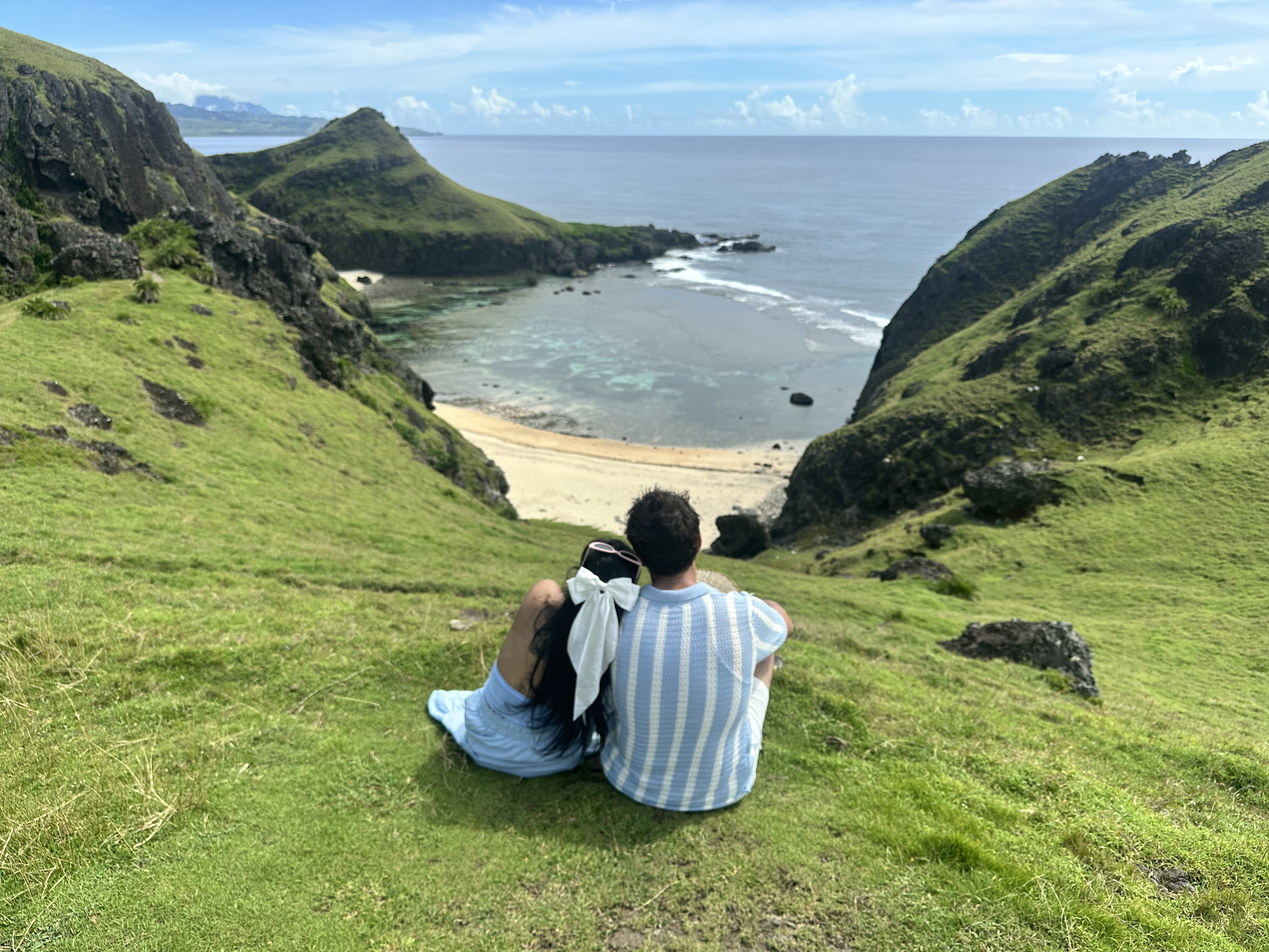
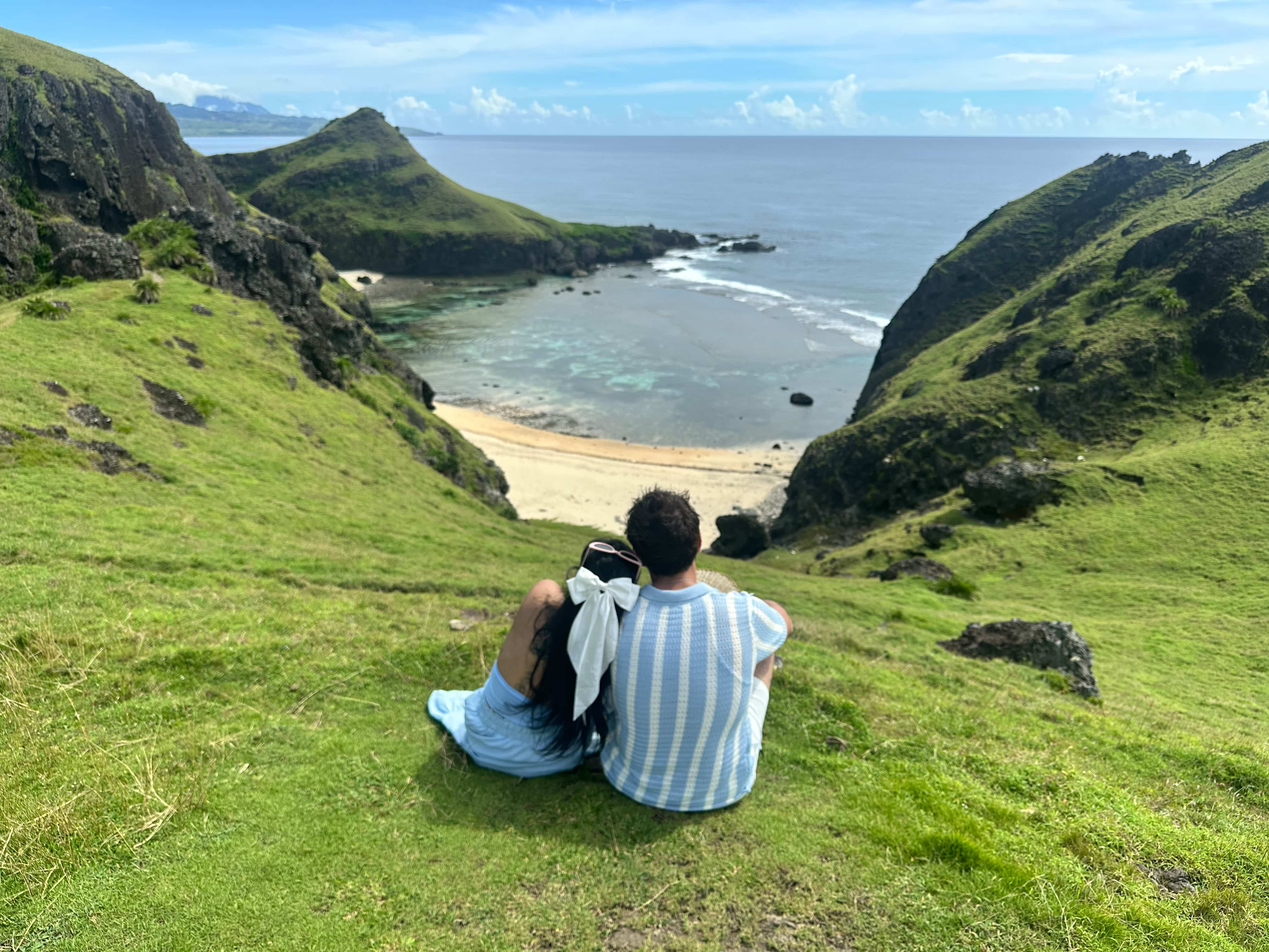
update again

diff --git a/index.html b/index.html
@@ -4,9 +4,8 @@
     <meta charset="UTF-8" />
     <meta name="viewport" content="width=device-width, initial-scale=1.0" />
     <title>Jon and Lorie - Wedding</title>
-<link rel="stylesheet" href="../dist/output.css" />
-<link rel="icon" href="../favicon.ico" /> 
-    <script src="../js/theme-init.js"></script>
+<link rel="stylesheet" href="dist/output.css" />
+    
     <link
       rel="stylesheet"
       href="https://cdnjs.cloudflare.com/ajax/libs/tiny-slider/2.9.4/tiny-slider.css"
@@ -24,6 +23,8 @@
     <link href="https://fonts.googleapis.com/css2?family=Cinzel:wght@400..900&display=swap" rel="stylesheet">
     <link href="https://fonts.googleapis.com/css2?family=Playfair:ital,opsz,wght@0,5..1200,300..900;1,5..1200,300..900&display=swap" rel="stylesheet">
     <link href="https://fonts.googleapis.com/css2?family=Tangerine:wght@400;700&display=swap" rel="stylesheet">
+    <link rel="preload" as="image" href="img/img_8.jpg">
+    <link rel="preload" as="image" href="img/img_9.jpg">
   </head>
   <body>
     <!-- Header -->
@@ -33,7 +34,7 @@
         <div class="flex justify-between items-center">
           <!-- logo -->
          <div class="flex items-center gap-2">
-            <img class="w-fit h-20 " src="../img/logo4.png" alt="logo" />
+            <img class="w-fit h-20 " src="img/logo4.png" alt="logo" />
             <h5>Jon and Lorie</h5>
           </div>
           <!-- nav -->
@@ -58,7 +59,7 @@
       </div>
     </header>
     <!-- Banner -->
-    <section class="relative pt-60 bg-[url('../img/img_9.jpg')] bg-cover bg-center h-[70vh] text-center">
+    <section class="relative pt-60 bg-[url('img/img_9.jpg')] bg-cover bg-center h-[70vh] text-center">
     <!-- overlay -->
     <div class="absolute inset-0 bg-black/50 z-0"></div>
     <!-- content -->
@@ -81,7 +82,7 @@
   
   <!-- Image 1 -->
   <div class="relative">
-    <img class="w-30 h-40 md:w-70 md:h-90 object-cover" src="../img/img_7.jpg" alt="">
+    <img class="w-30 h-40 md:w-70 md:h-90 object-cover" src="img/img_7.jpg" alt="">
     
     <!-- overlay -->
     <div class="absolute inset-0 bg-black/40"></div>
@@ -94,7 +95,7 @@
 
   <!-- Image 2 -->
   <div class="relative">
-    <img class="w-30 h-40 md:w-70 md:h-90 object-cover" src="../img/img_10.jpg" alt="">
+    <img class="w-30 h-40 md:w-70 md:h-90 object-cover" src="img/img_10.jpg" alt="">
     
     <div class="absolute inset-0 bg-black/40"></div>
 
@@ -105,7 +106,7 @@
 
   <!-- Image 3 -->
   <div class="relative">
-    <img class="w-30 h-40 md:w-70 md:h-90 object-cover" src="../img/img_5.jpg" alt="">
+    <img class="w-30 h-40 md:w-70 md:h-90 object-cover" src="img/img_5.jpg" alt="">
     
     <div class="absolute inset-0 bg-black/40"></div>
 
@@ -121,7 +122,7 @@
         </div>
     </section>
     <!-- Schedule -->
-     <section class="relative pt-20 bg-[url('../img/img_8.jpg')] bg-cover bg-center h-[75vh] text-center md:h-[85vh]">
+     <section class="relative pb-20 pt-20 bg-[url('img/img_8.jpg')] bg-cover bg-center min-h-[100svh] md:min-h-[85vh] text-center">
         <div class="absolute inset-0 bg-black/50 z-0"></div>
         <div class="container">
             <div class="relative text-white">
@@ -197,31 +198,31 @@
     <div class="relative overflow-hidden" id="sliderViewport">
       <div id="sliderTrack" class="flex">
         <div class="gallery-slide w-1/3 flex-shrink-0 p-2">
-          <img src="../img/img_1.jpg" alt="Image 1" class="w-full h-60 md:h-100 object-cover rounded-2xl shadow-md" />
+          <img src="img/img_1.jpg" alt="Image 1" class="w-full h-60 md:h-100 object-cover rounded-2xl shadow-md" />
         </div>
         <div class="gallery-slide w-1/3 flex-shrink-0 p-2">
-          <img src="../img/img_2.jpg" alt="Image 2" class="w-full h-60 md:h-100 object-cover rounded-2xl shadow-md" />
+          <img src="img/img_2.jpg" alt="Image 2" class="w-full h-60 md:h-100 object-cover rounded-2xl shadow-md" />
         </div>
         <div class="gallery-slide w-1/3 flex-shrink-0 p-2">
-          <img src="../img/img_3.jpg" alt="Image 3" class="w-full h-60 md:h-100 object-cover rounded-2xl shadow-md" />
+          <img src="img/img_3.jpg" alt="Image 3" class="w-full h-60 md:h-100 object-cover rounded-2xl shadow-md" />
         </div>
         <div class="gallery-slide w-1/3 flex-shrink-0 p-2">
-          <img src="../img/img_4.jpg" alt="Image 4" class="w-full h-60 md:h-100 object-cover rounded-2xl shadow-md" />
+          <img src="img/img_4.jpg" alt="Image 4" class="w-full h-60 md:h-100 object-cover rounded-2xl shadow-md" />
         </div>
         <div class="gallery-slide w-1/3 flex-shrink-0 p-2">
-          <img src="../img/img_5.jpg" alt="Image 5" class="w-full h-60 md:h-100 object-cover rounded-2xl shadow-md" />
+          <img src="img/img_5.jpg" alt="Image 5" class="w-full h-60 md:h-100 object-cover rounded-2xl shadow-md" />
         </div>
         <div class="gallery-slide w-1/3 flex-shrink-0 p-2">
-          <img src="../img/img_6.jpg" alt="Image 6" class="w-full h-60 md:h-100 object-cover rounded-2xl shadow-md" />
+          <img src="img/img_6.jpg" alt="Image 6" class="w-full h-60 md:h-100 object-cover rounded-2xl shadow-md" />
         </div>
         <div class="gallery-slide w-1/3 flex-shrink-0 p-2">
-          <img src="../img/img_7.jpg" alt="Image 6" class="w-full h-60 md:h-100 object-cover rounded-2xl shadow-md" />
+          <img src="img/img_7.jpg" alt="Image 6" class="w-full h-60 md:h-100 object-cover rounded-2xl shadow-md" />
         </div>
         <div class="gallery-slide w-1/3 flex-shrink-0 p-2">
-          <img src="../img/img_8.jpg" alt="Image 6" class="w-full h-60 md:h-100 object-cover rounded-2xl shadow-md" />
+          <img src="img/img_8.jpg" alt="Image 6" class="w-full h-60 md:h-100 object-cover rounded-2xl shadow-md" />
         </div>
         <div class="gallery-slide w-1/3 flex-shrink-0 p-2">
-          <img src="../img/img_9.jpg" alt="Image 6" class="w-full h-60 md:h-100 object-cover rounded-2xl shadow-md" />
+          <img src="img/img_9.jpg" alt="Image 6" class="w-full h-60 md:h-100 object-cover rounded-2xl shadow-md" />
         </div>
       </div>
 
@@ -255,10 +256,10 @@
                 <h1>The Venue</h1>
                 <p class="py-5 md:w-150 md:mx-auto">Our chosen venue offers a timeless setting where elegance meets serenity. Surrounded by beautiful landscapes and thoughtfully designed spaces, it creates the perfect atmosphere for a celebration filled with love, joy, and unforgettable memories.</p>
                 <div class="flex items-center gap-5 justify-center">
-                    <img class="object-cover h-50 w-30 rounded-2xl mb-3 md:h-100 md:w-70 " src="../img/venue1.jpg" alt="">
-                    <img class="object-cover h-50 w-30 rounded-2xl mb-3 md:h-100 md:w-70" src="../img/venue3.jpg" alt="">
-                    <img class="object-cover h-50 w-30 rounded-2xl mb-3 md:h-100 md:w-70" src="../img/venue4.jpg" alt="">
-                    <img class="object-cover h-50 w-30 rounded-2xl mb-3 hidden md:w-70 md:h-100 md:block" src="../img/venue2.jpg" alt="">
+                    <img class="object-cover h-50 w-30 rounded-2xl mb-3 md:h-100 md:w-70 " src="img/venue1.jpg" alt="">
+                    <img class="object-cover h-50 w-30 rounded-2xl mb-3 md:h-100 md:w-70" src="img/venue3.jpg" alt="">
+                    <img class="object-cover h-50 w-30 rounded-2xl mb-3 md:h-100 md:w-70" src="img/venue4.jpg" alt="">
+                    <img class="object-cover h-50 w-30 rounded-2xl mb-3 hidden md:w-70 md:h-100 md:block" src="img/venue2.jpg" alt="">
                 </div>
                 <a href="" class="btn btn--secondary w-50 mt-10">View Location</a>
             </div>
@@ -280,7 +281,7 @@
     <div class="flex flex-col md:flex-row items-center justify-center gap-8 my-10 max-w-3xl mx-auto text-center md:text-left">
       
       <!-- QR -->
-      <img class="w-40 h-40 shrink-0" src="../img/QR-code-test.png" alt="">
+      <img class="w-40 h-40 shrink-0" src="img/QR-code-test.png" alt="">
 
       <!-- Description -->
       <p>
@@ -304,6 +305,7 @@
         </div>
        </footer>
     <!-- script -->
+    <script src="js/theme-init.js"></script>
     <script src="https://cdnjs.cloudflare.com/ajax/libs/tiny-slider/2.9.2/min/tiny-slider.js"></script>
     <script src="js/toggle-menu.js"></script>
     <script src="js/mode.js"></script>
